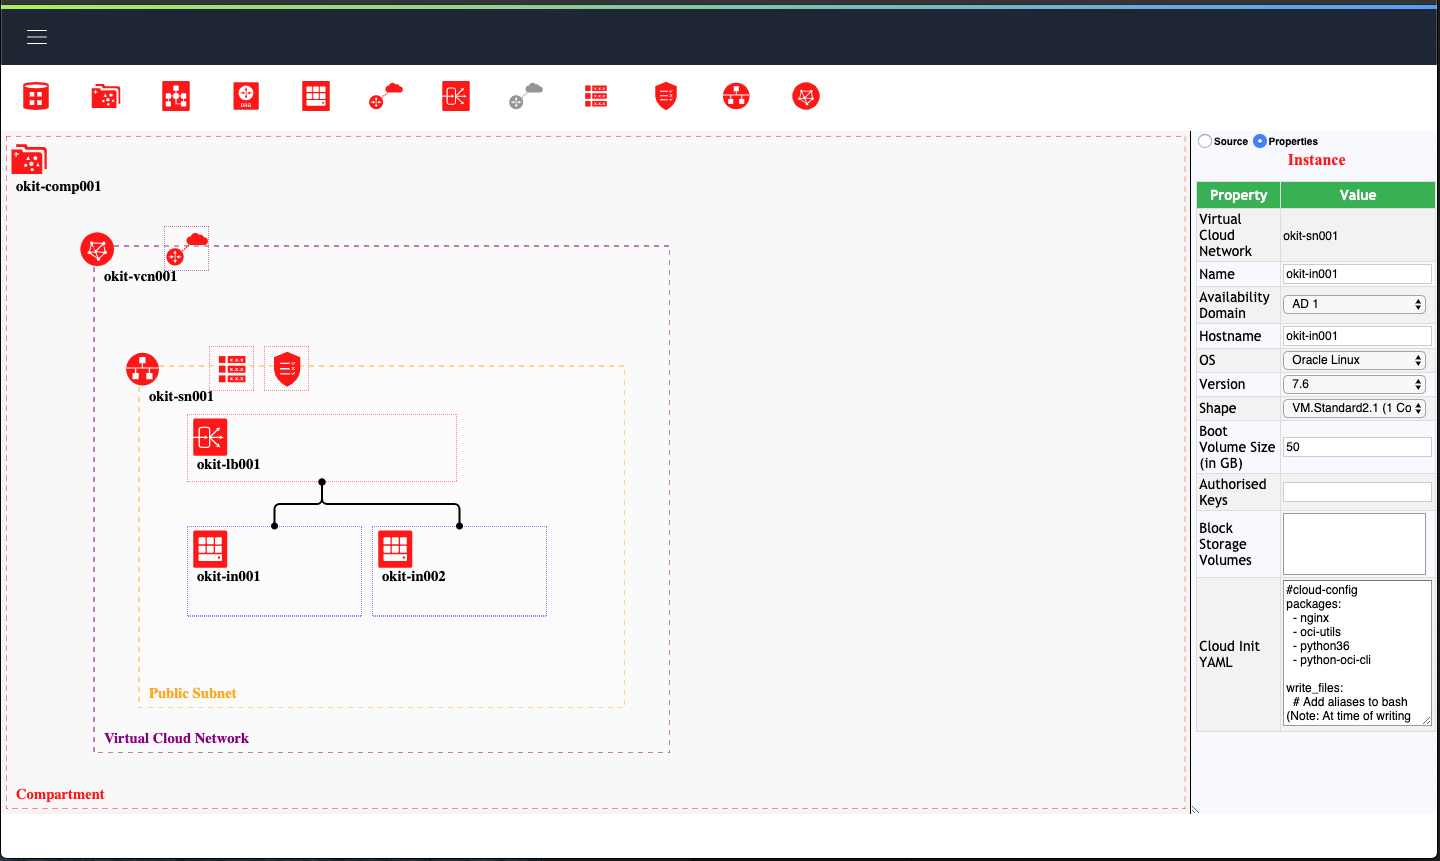
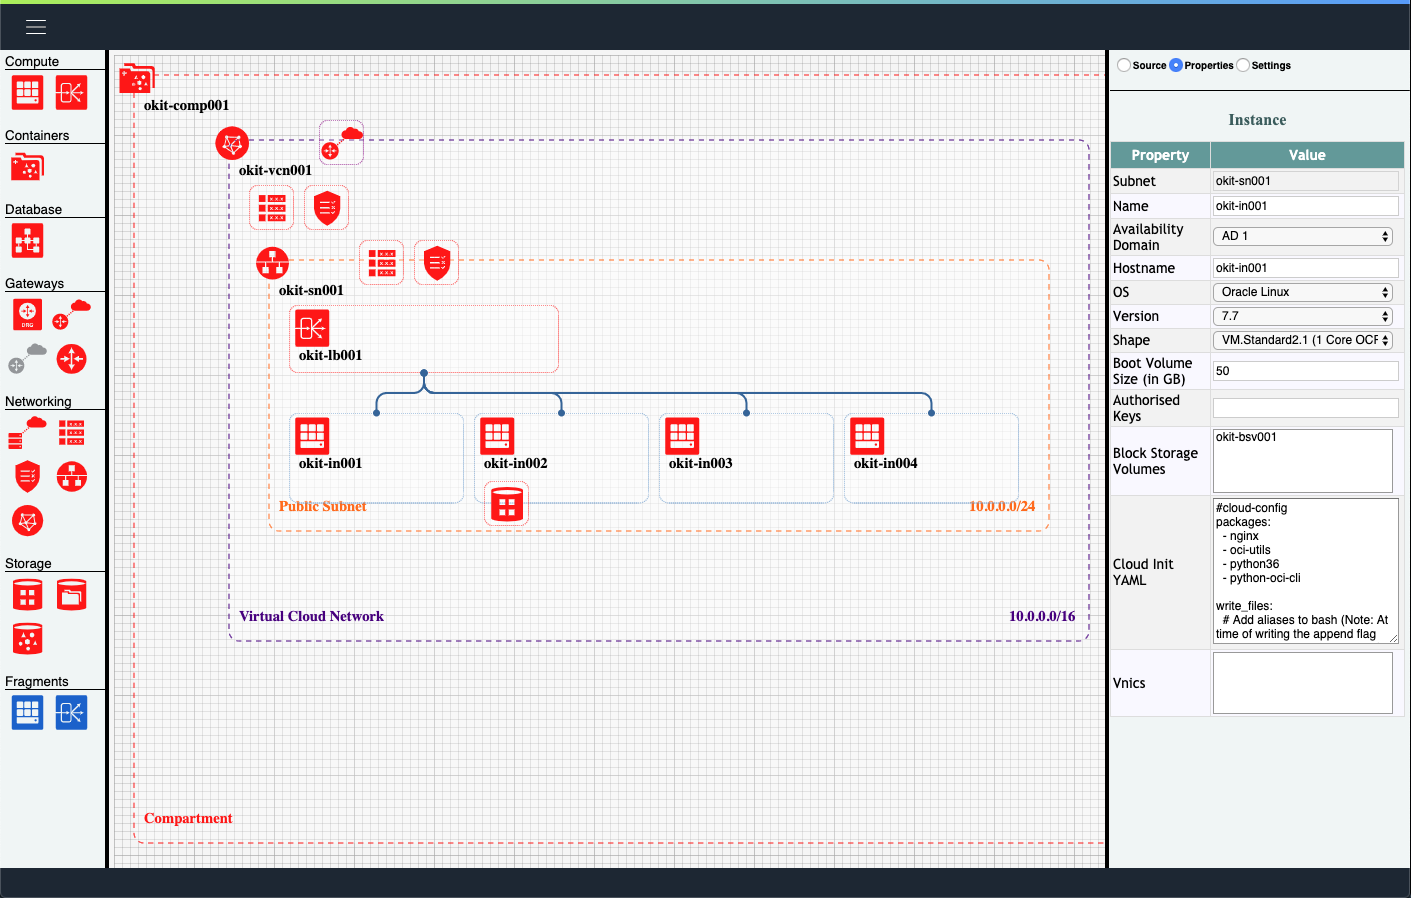
Add Example Imags

diff --git a/okitweb/static/okit/js/okit_designer_properties.js b/okitweb/static/okit/js/okit_designer_properties.js
@@ -110,12 +110,12 @@ function addPropertiesEventListeners(json_element, callbacks=[], settings=false)
                     console.log(' Calling ' + f);
                     f(json_element);
                 }
+                drawSVGforJson();
             });
             inputfield.on('blur', function() {
                 if (settings) {
                     saveOkitSettings();
                 }
-                drawSVGforJson();
             });
         }
     );

diff --git a/README.md b/README.md
@@ -14,10 +14,19 @@ can quickly be turned into code and ultimately built in the OCI environment.
     2. [Prerequisites](#prerequisites)
     3. [Web Interface](#web-interface)
     4. [Command Line](#command-line)
-3. [Tutorial](#tutorial)
-4. [Development](#development)
-5. [Contributing](#contributing)
-6. [Examples](#examples)
+3. [Examples](#examples)
+4. [Contributing](#contributing)
+5. [Development](#development)
+6. [3rd Party Libraries](#3rd-party-libraries)
+
+
+
+
+
+
+
+
+
 
 ## Installation
 Although OKIT can simply be downloaded and the command line executed it is recommended that it be executed within a
@@ -71,6 +80,15 @@ total 56
 ```bash
 anhopki-mac:docker anhopki$ ./build-docker-image.sh
 ```
+
+
+
+
+
+
+
+
+
 
 ## Usage
 ### Supported Browsers
@@ -214,17 +232,27 @@ Instances fronted by a Load Balancer can be seen below.
 The hamburger menu in the top left will display a slide out menu with all available actions (described below).
 
 ##### Palette
-- <img src="documentation/images/Virtual_Cloud_Network.png?raw=true" width="30" height="30"/> Virtual Cloud Network
-- <img src="documentation/images/Internet_Gateway.png?raw=true" width="30" height="30"/>      Internet Gateway
-- <img src="documentation/images/Route_Table.png?raw=true" width="30" height="30"/>           Route Table
-- <img src="documentation/images/Security_List.png?raw=true" width="30" height="30"/>         Security List
-- <img src="documentation/images/Subnet.png?raw=true" width="30" height="30"/>                Subnet
-- <img src="documentation/images/Instance.png?raw=true" width="30" height="30"/>              Instance
-- <img src="documentation/images/Load_Balancer.png?raw=true" width="30" height="30"/>         Load Balancer
-- <img src="documentation/images/Block_Storage_Volume.png?raw=true" width="30" height="30"/>  Block Storage Volume
-- <img src="documentation/images/Object_Storage_Bucket.png?raw=true" width="30" height="30"/> Object Storage Bucket
-- <img src="documentation/images/Autonomous_Database.png?raw=true" width="30" height="30"/>   Autonomous Database
-- <img src="https://orahub.oraclecorp.com/andrew.hopkinson/okit.oci.web.designer/blob/master/okitweb/static/okit/palette/storage/File_Storage_System.svg?sanitize=true" width="30" height="30"/>   File Storage System
+- Compute
+    - <img src="documentation/images/Instance.png?raw=true" width="30" height="30"/>              Instance
+    - <img src="documentation/images/Load_Balancer.png?raw=true" width="30" height="30"/>         Load Balancer
+- Containers
+- Database
+    - <img src="documentation/images/Autonomous_Database.png?raw=true" width="30" height="30"/>   Autonomous Database
+- Gateways
+    - <img src="./okitweb/static/okit/palette/gateways/Dynamic_Routing_Gateway.svg?sanitize=true" width="30" height="30"/>   Dynamic Routing Gateway
+    - <img src="documentation/images/Internet_Gateway.png?raw=true" width="30" height="30"/>      Internet Gateway
+    - <img src="./okitweb/static/okit/palette/gateways/NAT_Gateway.svg?sanitize=true" width="30" height="30"/>   NAT Gateway
+- Networking
+    - <img src="documentation/images/Route_Table.png?raw=true" width="30" height="30"/>           Route Table
+    - <img src="documentation/images/Security_List.png?raw=true" width="30" height="30"/>         Security List
+    - <img src="documentation/images/Subnet.png?raw=true" width="30" height="30"/>                Subnet
+    - <img src="documentation/images/Virtual_Cloud_Network.png?raw=true" width="30" height="30"/> Virtual Cloud Network
+- Storage
+    - <img src="documentation/images/Block_Storage_Volume.png?raw=true" width="30" height="30"/>  Block Storage Volume
+    - <img src="./okitweb/static/okit/palette/storage/File_Storage_System.svg?sanitize=true" width="30" height="30"/>   File Storage System
+    - <img src="documentation/images/Object_Storage_Bucket.png?raw=true" width="30" height="30"/> Object Storage Bucket
+
+    - ![File Storage System](./okitweb/static/okit/palette/storage/File_Storage_System.svg?sanitize=true) <!-- .element  width="30px" height="30px" -->
 
 ##### Menu 
 ![OKIT Web Interface Menu](documentation/images/okit_menu.png?raw=true "OKIT Web Interface Menu")
@@ -234,15 +262,15 @@ The hamburger menu in the top left will display a slide out menu with all availa
     - Load
     - Save
     - Redraw
-- Export
-    - SVG
-    - Resource Manager
-    - Orca
+- Templates
 - Query
     - OCI
 - Generate
     - Terraform
     - Ansible
+- Export
+    - SVG
+    - Resource Manager
 
 ###### Canvas/New
 Creates a new clear canvas.
@@ -252,13 +280,8 @@ Allows the user to select a previously saved or command line generated json file
 Saves the current diagram as a json representation.
 ###### Canvas/Redraw
 Redraws the existing canvas this will have the effect of grouping similar assets.
-###### Export/SVG
-Will export the current diagram as an SVG object that can be distributed.
-###### Export/Resource Manager
-Will generate Terraform code and export the resulting zip file into the OCI Resource Manager. Once uploaded it will initiate
-a plan job.
-###### Export/Orca
-***(WIP)*** Convert the OKIT JSON format to Orca input format.
+###### Templates
+This is a dynamic menu that represents the available templates that can be loaded as a starting point for system development.
 ##### Query/OCI
 Opens Query pages and populates the Compartment list. Once the user has chosen the compartment and added a virtual cloud network 
 filter submitting will query OCI and draw the returning assets on the new designer canvas.
@@ -266,6 +289,11 @@ filter submitting will query OCI and draw the returning assets on the new design
 Generate a set of Terraform that can be used to build the designed OCI infrastructure currently loaded and return as a zip file.
 ##### Generate/Ansible
 Generate a set of Ansible that can be used to build the designed OCI infrastructure currently loaded  and return as a zip file.
+###### Export/SVG
+Will export the current diagram as an SVG object that can be distributed.
+###### Export/Resource Manager
+Will generate Terraform code and export the resulting zip file into the OCI Resource Manager. Once uploaded it will initiate
+a plan job.
 
 ### Command Line
 To use the Command Line you will first need to start the docker container using the following script:
@@ -307,11 +335,101 @@ cd test/unit.test
 python3 ./generateTFfromOCI.py -d . -c Stefan
 ```
 
-## Tutorial
+
+
+
+
+
+
+
+
+
+## Examples
 The following short tutorial will take you through a worked example for creating a simple 2 Instance load balanced nginx
 implementation. The results of the worked example can be seen in the template (Simple Load Balancer).
 
 **WIP**
+### Terraform Generation & Execution
+For a given diagram you are able to select the menu option Generate->Terraform and this will generate a oci_terraform.zip 
+that can be saved and extracted to produce 3 files that can be used by terraform. If we assume that the export have been
+generated from the 'Load Balanced Nginx Instances' Template then the infrastructure can be created as follows.
+
+#### Unzip Generated File
+```bash
+[root@start-flask terraform]# lh
+total 20K
+   0 drwxr-xr-x 4 root root  128 Oct 31 16:20 .
+4.0K drwxr-xr-x 1 root root 4.0K Oct 28 18:00 ..
+8.0K -rw-r--r-- 1 root root 6.1K Oct 31 16:20 .DS_Store
+8.0K -rw-r--r-- 1 root root 5.4K Oct 31 16:20 okit-terraform.zip
+[root@start-flask terraform]#
+[root@start-flask terraform]# unzip okit-terraform.zip -d okit-terraform
+Archive:  okit-terraform.zip
+  inflating: okit-terraform/variables.tf
+  inflating: okit-terraform/main.tf
+  inflating: okit-terraform/terraform.tfvars
+```
+
+#### Plan Terraform Build
+```bash
+[root@start-flask terraform]# cd okit-terraform
+[root@start-flask okit-terraform]# terraform init
+
+..........
+
+[root@start-flask okit-terraform]# terraform plan -var-file=/okit/config/connection.tfvars -out=da.plan
+Refreshing Terraform state in-memory prior to plan...
+The refreshed state will be used to calculate this plan, but will not be
+persisted to local or remote state storage.
+..........
+```
+
+#### Apply Terraform Plan
+```bash
+[root@start-flask okit-terraform]#
+[root@start-flask okit-terraform]# terraform apply da.plan
+oci_core_vcn.Okit-Vcn001: Creating...
+oci_core_volume.Okit-Bsv001: Creating...
+..........
+```
+
+### Ansible Generation & Execution
+For a given diagram you are able to select the menu option Generate->Ansible and this will generate a oci_ansible.zip 
+that can be saved and extracted to produce 2 files that can be used by ansible. If we assume that the export have been
+generated from the 'Load Balanced Nginx Instances' Template then the infrastructure can be created as follows.
+
+#### Unzip Generated File
+```bash
+[root@start-flask ansible]# unzip okit-ansible.zip -d okit-ansible
+Archive:  okit-ansible.zip
+```
+
+#### Run Playbook
+```bash
+ansible-playbook main.yml --extra-vars "@/okit/config/connection.yml" 
+```
+
+
+
+
+
+
+
+
+
+
+## Contributing
+
+Bug reports, enhancement request and pull requests are welcome on the OraHub at [okit.oci.web.designer/issues](https://orahub.oraclecorp.com/andrew.hopkinson/okit.oci.web.designer/issues)
+
+
+
+
+
+
+
+
+
 
 ## Development
 All currently active / planned development is documented / being tracked in the internal Jira ticket 
@@ -1027,6 +1145,16 @@ Storage Volume must exist before an Instance can use it hence it occurs before t
 
         return
 ```
+
+
+
+
+
+
+
+
+
+
 ## 3rd Party Libraries
 ### Javascript
 
@@ -1046,70 +1174,12 @@ Storage Volume must exist before an Instance can use it hence it occurs before t
 | simplejson | 3.17.0  | MIT / AFL |            | [PyPi simplejson](https://pypi.org/project/simplejson/) |
 | werkzeug   | 0.16.0  | BSD       | 3-Clause   | [PyPi Werkzeug](https://pypi.org/project/Werkzeug/)     |
 
-## Contributing
 
-Bug reports, enhancement request and pull requests are welcome on the OraHub at [okit.oci.web.designer/issues](https://orahub.oraclecorp.com/cloud-tools-ateam/okit.oci.web.designer/issues)
 
-## Examples
-### Terraform Generation & Execution
-For a given diagram you are able to select the menu option Generate->Terraform and this will generate a oci_terraform.zip 
-that can be saved and extracted to produce 3 files that can be used by terraform. If we assume that the export have been
-generated from the 'Load Balanced Nginx Instances' Template then the infrastructure can be created as follows.
 
-#### Unzip Generated File
-```bash
-[root@start-flask terraform]# lh
-total 20K
-   0 drwxr-xr-x 4 root root  128 Oct 31 16:20 .
-4.0K drwxr-xr-x 1 root root 4.0K Oct 28 18:00 ..
-8.0K -rw-r--r-- 1 root root 6.1K Oct 31 16:20 .DS_Store
-8.0K -rw-r--r-- 1 root root 5.4K Oct 31 16:20 okit-terraform.zip
-[root@start-flask terraform]#
-[root@start-flask terraform]# unzip okit-terraform.zip -d okit-terraform
-Archive:  okit-terraform.zip
-  inflating: okit-terraform/variables.tf
-  inflating: okit-terraform/main.tf
-  inflating: okit-terraform/terraform.tfvars
-```
 
-#### Plan Terraform Build
-```bash
-[root@start-flask terraform]# cd okit-terraform
-[root@start-flask okit-terraform]# terraform init
 
-..........
 
-[root@start-flask okit-terraform]# terraform plan -var-file=/okit/config/connection.tfvars -out=da.plan
-Refreshing Terraform state in-memory prior to plan...
-The refreshed state will be used to calculate this plan, but will not be
-persisted to local or remote state storage.
-..........
-```
 
-#### Apply Terraform Plan
-```bash
-[root@start-flask okit-terraform]#
-[root@start-flask okit-terraform]# terraform apply da.plan
-oci_core_vcn.Okit-Vcn001: Creating...
-oci_core_volume.Okit-Bsv001: Creating...
-..........
-```
 
-### Ansible Generation & Execution
-For a given diagram you are able to select the menu option Generate->Ansible and this will generate a oci_ansible.zip 
-that can be saved and extracted to produce 2 files that can be used by ansible. If we assume that the export have been
-generated from the 'Load Balanced Nginx Instances' Template then the infrastructure can be created as follows.
-
-#### Unzip Generated File
-```bash
-[root@start-flask ansible]# unzip okit-ansible.zip -d okit-ansible
-Archive:  okit-ansible.zip
-```
-
-#### Run Playbook
-```bash
-ansible-playbook main.yml --extra-vars "@/okit/config/connection.yml" 
-```
-
-## Cleanup
 
